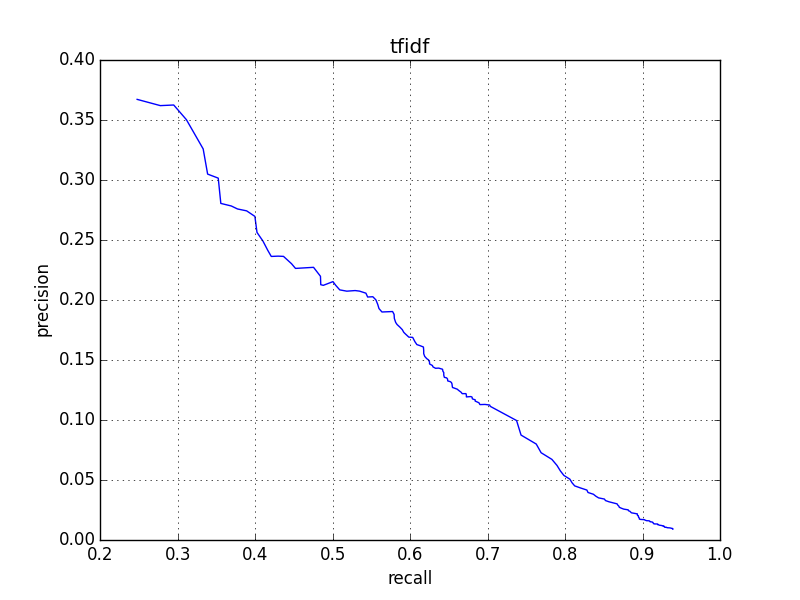
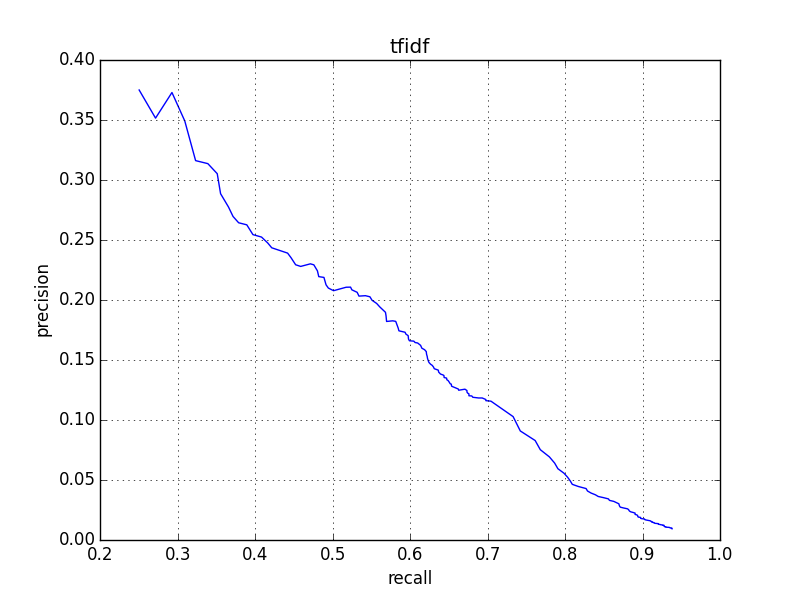
Stemming stop words too.

diff --git a/index/core/tests/test_index.py b/index/core/tests/test_index.py
@@ -2,8 +2,7 @@ import unittest
 import os
 from ..index import Index
 from ..index_config import IndexConfig
-from ..utility import tf_idf
-from ..constants import FILE, DOC_ID, COUNT, NORM_COUNT, WORDS, TFIDF, NORM_TFIDF, START, END
+from ..constants import FILE, WORDS, START, END
 
 
 class IndexTests(unittest.TestCase):
@@ -16,20 +15,20 @@ class IndexTests(unittest.TestCase):
         index = Index(
             os.path.dirname(os.path.realpath(__file__)) + "/test_data", IndexConfig())
         expected = {
-            'subtractions': {2:1},
-            'language': {1:1, 2:1},
-            'extraction': {2:1},
+            'subtract': {2:1},
+            'languag': {1:1, 2:1},
+            'extract': {2:1},
             'of': {2:1},
-            'computers': {2:1},
+            'comput': {2:1},
             'for': {2:1},
-            'algebraic': {1:1},
-            'repeated': {2:1},
-            'digital': {2:1},
-            'preliminary': {1:2},
+            'algebra': {1:1},
+            'repeat': {2:1},
+            'digit': {2:1},
+            'preliminari': {1:2},
             'report': {1:1},
-            'international': {1:1},
+            'intern': {1:1},
             'by': {2:1},
-            'roots': {2:1}
+            'root': {2:1}
         }
         self.assertEqual(expected, index._inverted_index)
 
@@ -43,25 +42,25 @@ class IndexTests(unittest.TestCase):
         index = Index(
             os.path.dirname(os.path.realpath(__file__)) + "/test_data", config)
         expected = {
-            'subtractions': {2:1},
-            'language': {1:1, 2:1},
-            'extraction': {2:1},
-            'computers': {2:1},
-            'algebraic': {1:1},
-            'repeated': {2:1},
-            'digital': {2:1},
-            'preliminary': {1:2},
+         'subtract': {2:1},
+            'languag': {1:1, 2:1},
+            'extract': {2:1},
+            'comput': {2:1},
+            'algebra': {1:1},
+            'repeat': {2:1},
+            'digit': {2:1},
+            'preliminari': {1:2},
             'report': {1:1},
-            'international': {1:1},
-            'roots': {2:1}
+            'intern': {1:1},
+            'root': {2:1}
         }
         self.assertEqual(expected, index._inverted_index)
 
-    def test_Search(self):
+    def test_search(self):
         expected = {1:1, 2:1}
         index = Index(
             os.path.dirname(os.path.realpath(__file__)) + "/test_data", IndexConfig())
-        self.assertEqual([], index.search('thereShouldBeNoDocument'))
+        self.assertEqual({}, index.search('thereShouldBeNoDocument'))
         self.assertEqual(expected, index.search('Language'))
 
     def test_index_by_doc_id(self):
@@ -73,10 +72,10 @@ class IndexTests(unittest.TestCase):
             FILE: data_path,
             START: 0,
             WORDS: {
-                'algebraic': 1,
-                'international': 1,
-                'language': 1,
-                'preliminary': 2,
+                'algebra': 1,
+                'intern': 1,
+                'languag': 1,
+                'preliminari': 2,
                 'report': 1
             }
         }

diff --git a/index/core/document_index.py b/index/core/document_index.py
@@ -1,8 +1,7 @@
 '''
 Provides classes to index single documents.
 '''
-from .utility import get_word_list, count_tokens, merge_dictionaries, \
-    filter_words
+from .utility import get_word_list, count_tokens, merge_dictionaries
 import re
 
 
@@ -82,7 +81,8 @@ class DocumentIndex(object):
     '''
     Class containing the indexing result for one document.
     If provided with a indexConfig, the indexing will parse the document
-    and filter stop words. Otherwise, it will be done on the whole content.
+    and filter stop words. Otherwise, indexing will be done on 
+    the whole content.
     '''
 
     def __init__(self, content, indexConfig=None):
@@ -114,7 +114,9 @@ class DocumentIndex(object):
 
     def _tokenize(self, content):
         '''Returns an array of tokens (clean words) in a string.'''
-        tokens = get_word_list(content)
-        if self._config:
-            tokens = filter_words(tokens, self._config.stop_words)
+        if not self._config:
+            stop_words = []
+        else:
+            stop_words = self._config.stop_words
+        tokens = get_word_list(content, stop_words)
         return tokens

diff --git a/index/core/tests/test_document_index.py b/index/core/tests/test_document_index.py
@@ -2,7 +2,7 @@ import unittest
 import os
 from ..document_index import DocumentIndex, StructuredDocument, PlainDocument
 from ..index_config import IndexConfig
-from ..constants import FILE, DOC_ID, COUNT, NORM_COUNT, WORDS, TFIDF, NORM_TFIDF, START, END
+from ..constants import FILE, WORDS, START, END
 
 
 class DocumentIndexTests(unittest.TestCase):
@@ -26,10 +26,10 @@ class DocumentIndexTests(unittest.TestCase):
 
     def test_create_index(self):
         expected = {
-            'algebraic': 1,
-            'international': 1,
-            'language': 1,
-            'preliminary': 2,
+            'algebra': 1,
+            'intern': 1,
+            'languag': 1,
+            'preliminari': 2,
             'report': 1
         }
         self.assertEqual(expected, self.doc_index.get_word_count())

diff --git a/index/core/utility.py b/index/core/utility.py
@@ -28,11 +28,14 @@ def merge_dictionaries(dict_a, dict_b, merging_func=lambda x, y: x + y):
     return res
 
 
-def get_word_list(content):
+def get_word_list(content, stop_words):
     '''Gets the list of words in a string'''
+    if not stop_words:
+        stop_words = []
     content = re.sub(r'[^\w\s]', ' ', content)
     word_list = split_content(content)
     word_list = [tokenize(x) for x in word_list]
+    word_list = filter_words(word_list, stop_words)
     return word_list
 
 

diff --git a/index/core/index_config.py b/index/core/index_config.py
@@ -1,7 +1,7 @@
 '''
 Configuration object for an index.
 '''
-
+from .utility import tokenize
 
 class IndexConfig(object):
 
@@ -21,4 +21,4 @@ class IndexConfig(object):
         '''
         Read a file containing stop words and populates the stop word list.'''
         with open(stop_word_file) as file_ptr:
-            self.stop_words = file_ptr.read().splitlines()
+            self.stop_words = [tokenize(x) for x in file_ptr.read().splitlines()]
